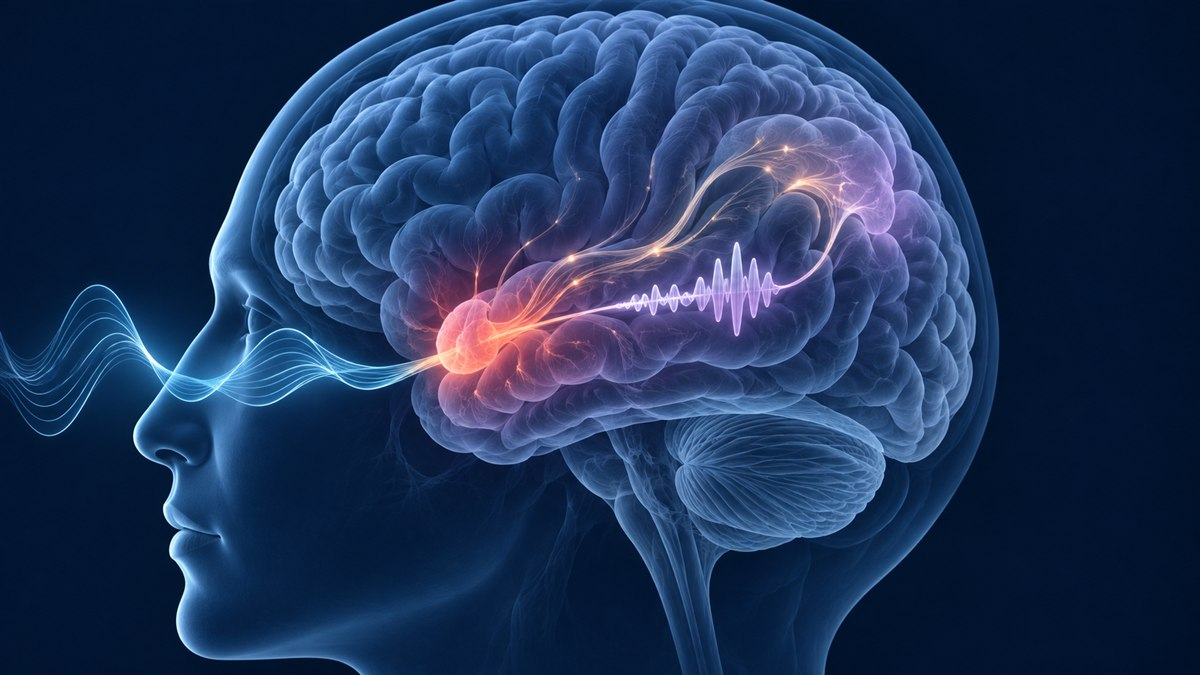
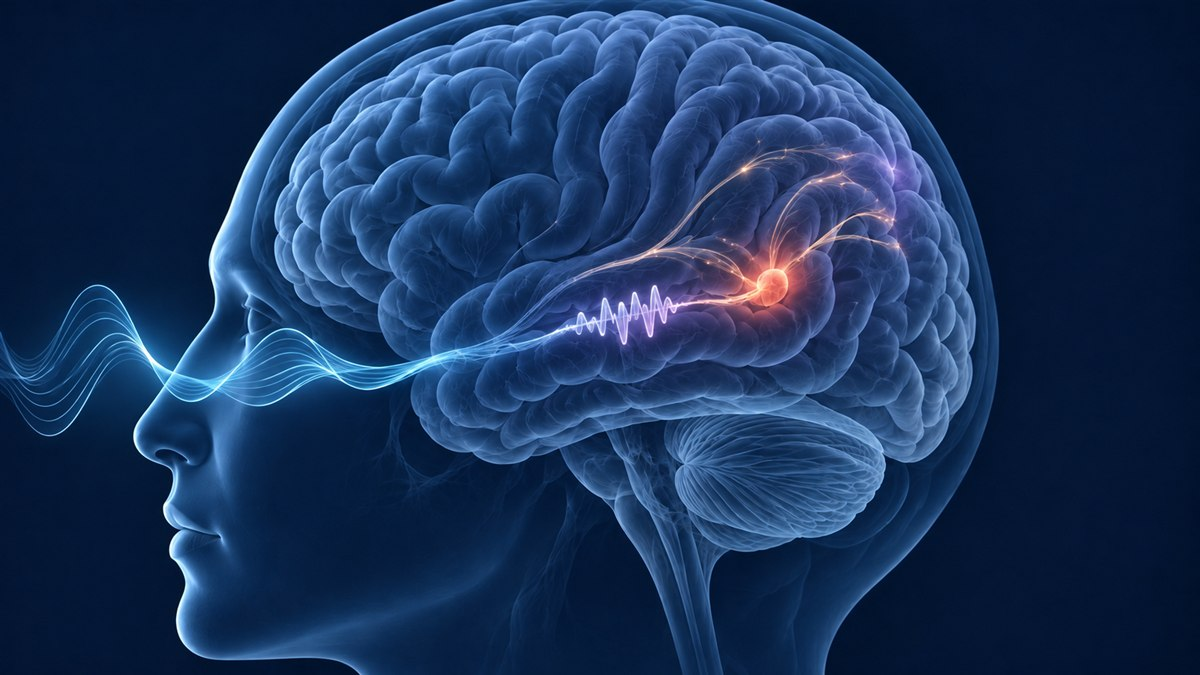
Actualiza vista y miniatura del artículo 305

diff --git a/articulo/305-region-wernicke-planificar-palabras-habla.html b/articulo/305-region-wernicke-planificar-palabras-habla.html
@@ -106,7 +106,7 @@
 
 <h3>De una paradoja clínica a una pregunta experimental</h3>
 
-<p>La pregunta viene de observaciones clínicas del siglo XIX. Algunas personas con daño en la región temporal posterior tienen dificultades para comprender lo que oyen y, a la vez, pueden perder fluidez o producir palabras equivocadas. La explicación clásica tendía a separar la comprensión, asociada con Wernicke, de la producción, atribuida principalmente a circuitos frontales y motores. El equipo de la Universidad de California en San Francisco (UCSF) investigó qué información se representa en la zona temporal mientras una persona habla.</p>
+<p>La pregunta viene de observaciones clínicas del siglo XIX. Algunas personas con daño en la región temporal posterior tienen dificultades para comprender lo que oyen, y su habla puede seguir siendo fluida aunque pierda precisión o sentido. La explicación clásica tendía a separar la comprensión, asociada con Wernicke, de la producción, atribuida principalmente a circuitos frontales y motores. El equipo de la Universidad de California en San Francisco (UCSF) investigó qué información se representa en la zona temporal mientras una persona habla.</p>
 
 <p>Alexander B. Silva, Matthew K. Leonard y sus colegas combinaron registros directos de actividad cerebral en seres humanos, estimulación eléctrica de la corteza y análisis de lesiones. Estas técnicas permiten observar cuándo se activan grupos de neuronas y probar si interrumpir temporalmente su actividad altera la tarea. El estudio apareció en <em>Science</em> bajo el título “A neural code for generative speech production in human Wernicke’s area”.</p>
 
